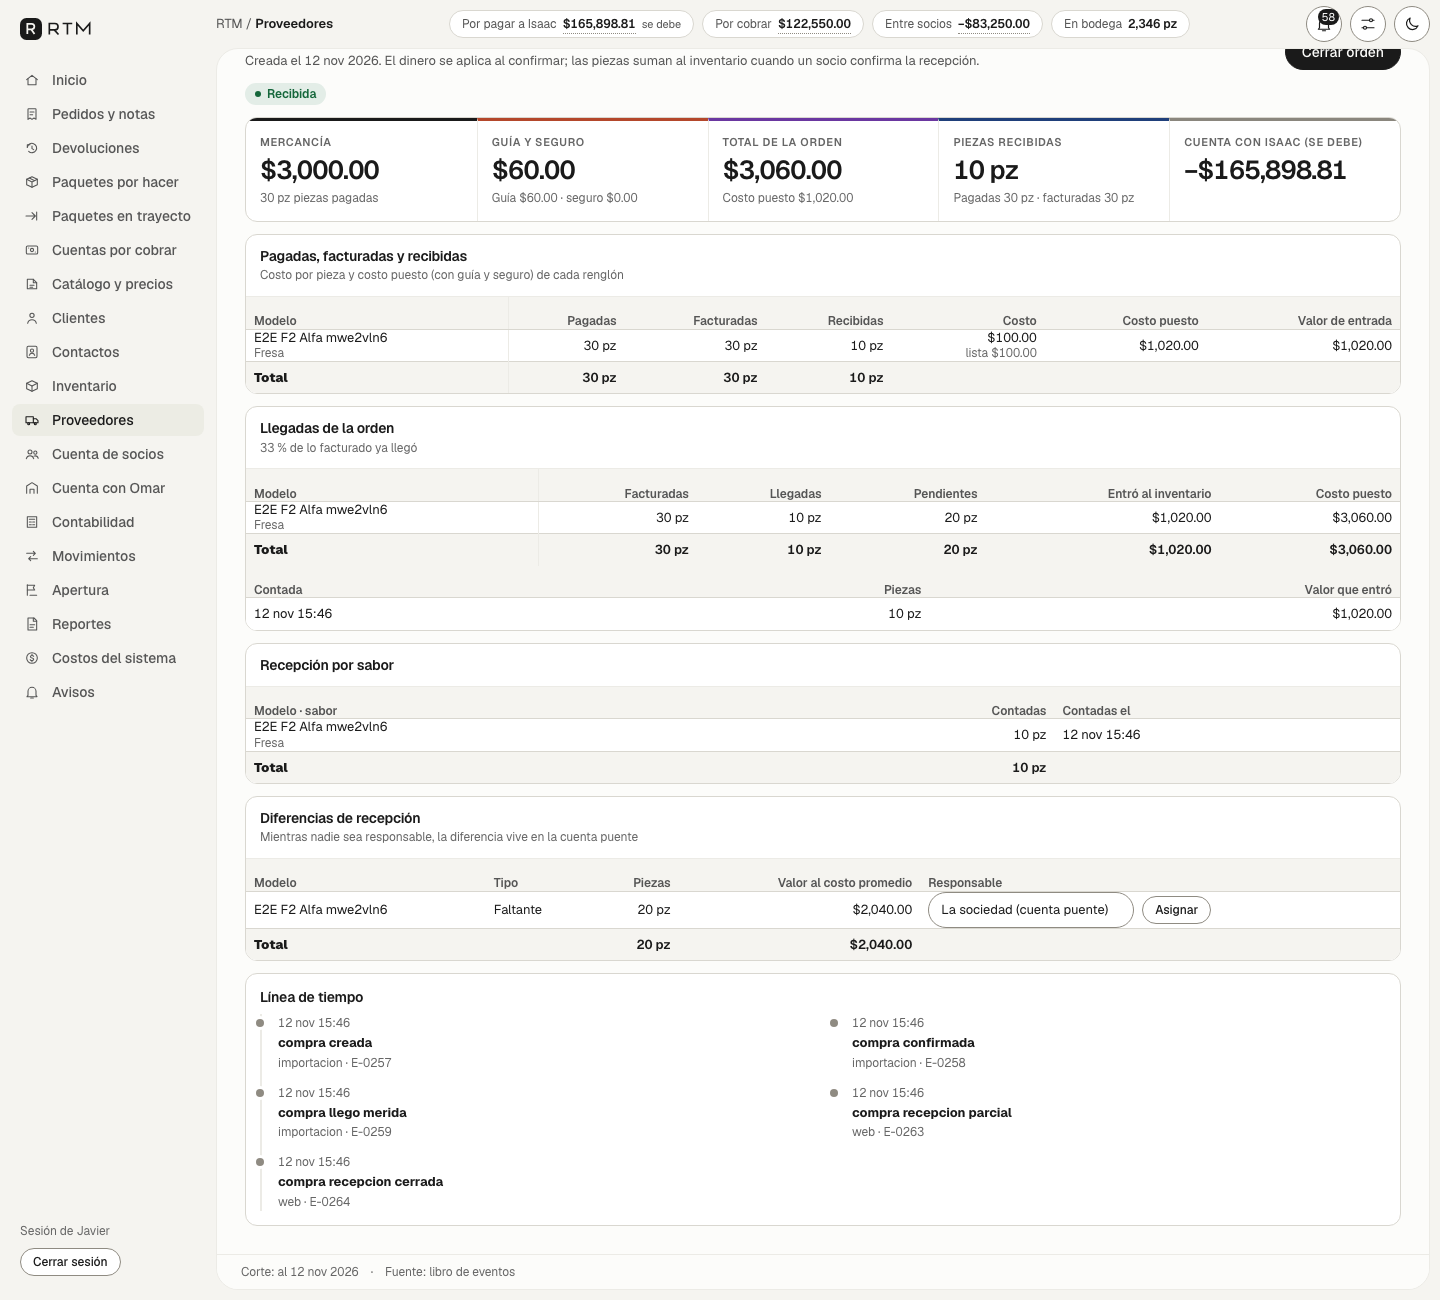
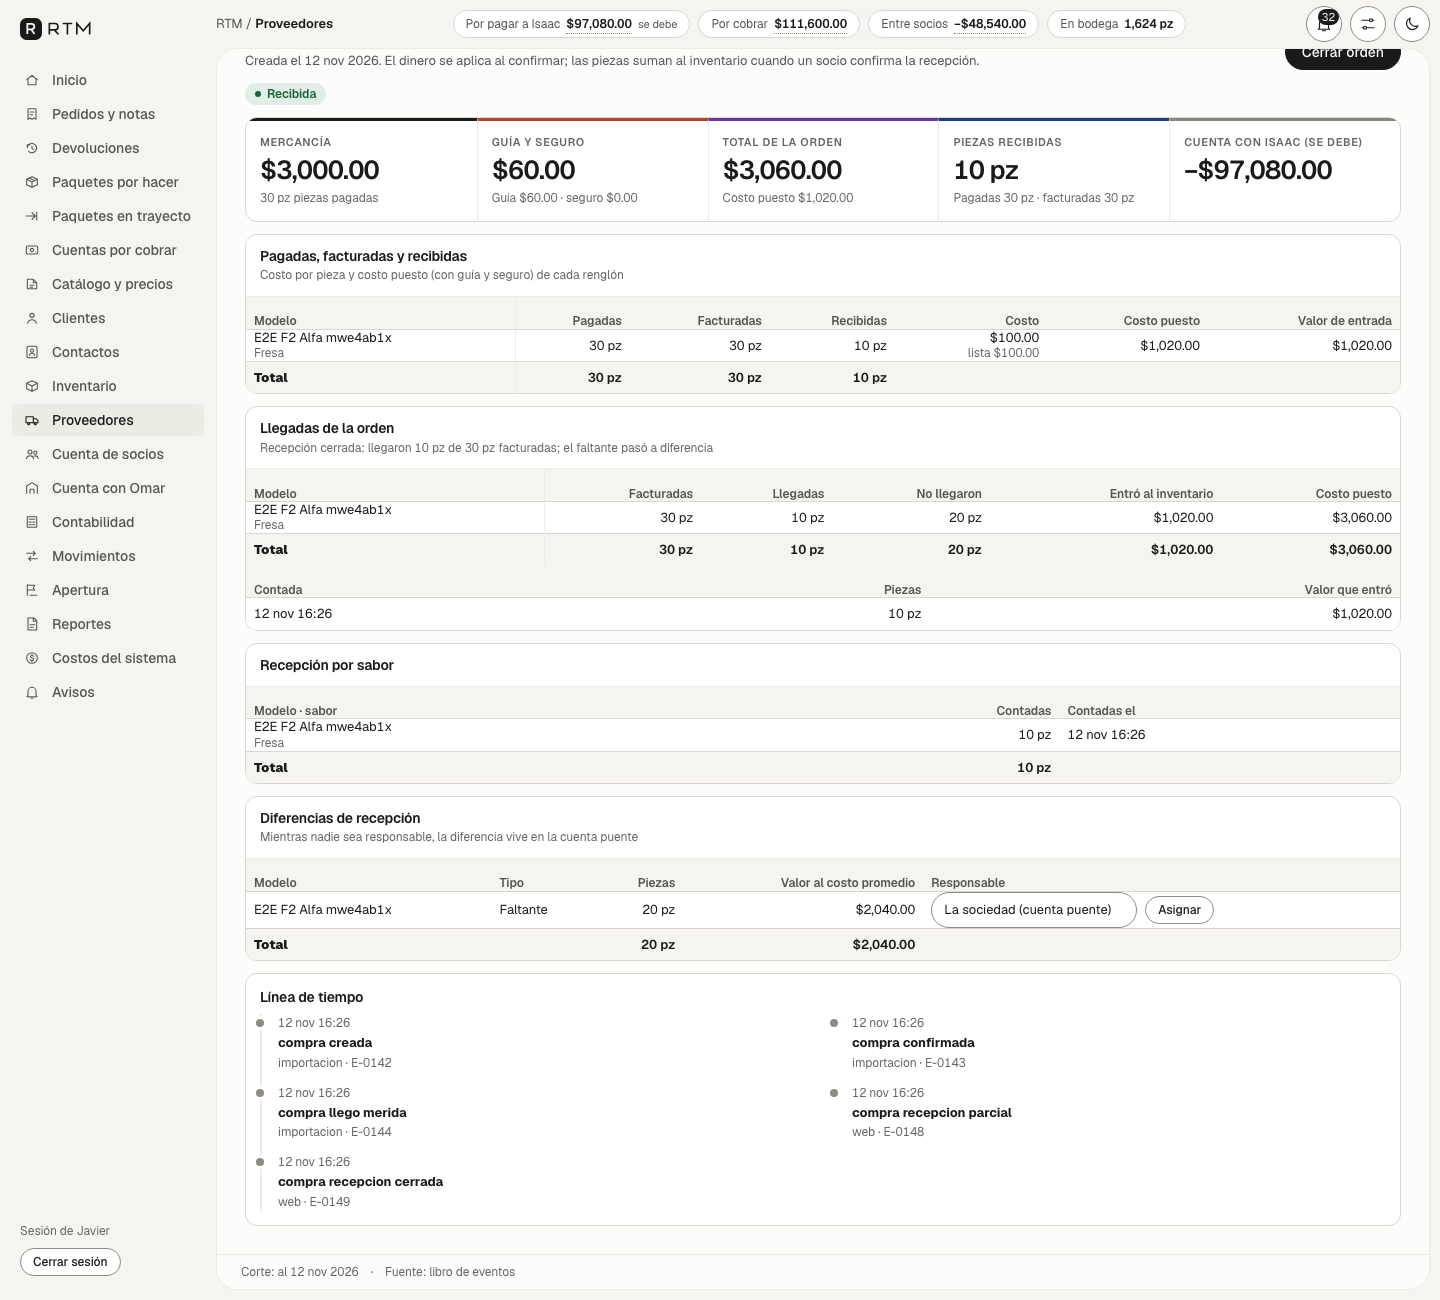
docs(devoluciones): informe de la reparacion, capturas regeneradas, e2e de utilidad neta, etiqueta Costo neto

diff --git a/src/app/(socio)/pedidos/[id]/page.tsx b/src/app/(socio)/pedidos/[id]/page.tsx
@@ -84,7 +84,7 @@ export default async function PaginaPedido({ params, searchParams }: { params: P
         etiquetaAria="Cifras del pedido"
         celdas={[
           { id: 'venta', etiqueta: enviado || anulado ? 'Total a saldar' : 'Total estimado si sale todo', valor: <CifraComprobada texto={formatearMoneda(enviado || anulado ? p.cobrado_cent : p.estimado_cent)} cifra={`pedido:total:${p.id}`} comprobacion="cuadra" />, categoria: 1, nota: `${formatearPiezas(piezasPedidas)} pedidas · ${formatearPiezas(piezasSurtidas)} surtidas` },
-          { id: 'costo', etiqueta: neta ? 'Costo de las piezas (neto)' : 'Costo de las piezas', valor: costoVista !== null ? formatearMoneda(costoVista) : null, categoria: 5, nota: neta ? `Regresaron ${formatearMoneda(neta.costo_regresado_cent)} a inventario${neta.merma_cent > 0n ? ` · merma ${formatearMoneda(neta.merma_cent)}` : ''}` : cas ? undefined : 'Se calcula al enviar' },
+          { id: 'costo', etiqueta: neta ? 'Costo neto' : 'Costo de las piezas', valor: costoVista !== null ? formatearMoneda(costoVista) : null, categoria: 5, nota: neta ? `Regresaron ${formatearMoneda(neta.costo_regresado_cent)} a inventario${neta.merma_cent > 0n ? ` · merma ${formatearMoneda(neta.merma_cent)}` : ''}` : cas ? undefined : 'Se calcula al enviar' },
           { id: 'utilidad', etiqueta: cas?.utilidad_provisional ? 'Utilidad (provisional)' : 'Utilidad', valor: utilidadVista !== null ? formatearMoneda(utilidadVista) : null, categoria: 3, nota: utilidadVista !== null && totalVista !== null && totalVista > 0n ? `Margen ${((aNumero(utilidadVista) / aNumero(totalVista)) * 100).toFixed(1)} % ${neta ? 'del total cobrado neto' : 'del total'}` : cas?.guia_pendiente ? 'Guía por costear' : undefined },
           ...(dev && dev.devuelto_cent > 0n ? [{ id: 'devuelto', etiqueta: 'Devuelto (crédito)', valor: formatearMoneda(-dev.devuelto_cent), categoria: 6 as const, nota: `${dev.devoluciones.filter((x) => !x.anulada).length} devolución(es) vigentes` }] : []),
           { id: 'abonado', etiqueta: 'Abonado', valor: enviado || anulado ? formatearMoneda(p.aplicado_cent) : null, categoria: 2, progreso: enviado && p.cobrado_cent > 0n ? { pct: (aNumero(p.aplicado_cent) / aNumero(p.cobrado_cent)) * 100 } : undefined },

diff --git a/test/e2e/devoluciones.spec.ts b/test/e2e/devoluciones.spec.ts
@@ -95,6 +95,9 @@ test('devolucion de un cliente: tope de piezas, nota de credito con PDF estable,
   await expect(seccion).toContainText('$1,500.00');
   await expect(page.getByText('Devuelto (crédito)')).toBeVisible();
   await expect(page.getByText('$3,000.00').first()).toBeVisible(); // 30 pz a 150.00 = 4,500.00 menos 1,500.00
+  // Utilidad neta de la devolucion: 1,440.00 de la nota - 1,500.00 de credito + 1,000.00 de costo que regreso a bodega = 940.00, sobre 3,000.00 cobrados.
+  await expect(page.getByText('$940.00').first()).toBeVisible();
+  await expect(page.getByText('Margen 31.3 % del total cobrado neto')).toBeVisible();
 
   const href = await seccion.getByRole('link', { name: /DV-/ }).getAttribute('href');
   const a = await page.context().request.get(href!);
@@ -121,6 +124,9 @@ test('devolucion de un cliente: tope de piezas, nota de credito con PDF estable,
   await page.getByRole('dialog').getByLabel(/Destino de/).first().selectOption('merma');
   await page.getByTestId('confirmar').click();
   await expect(seccion).toContainText('$600.00', { timeout: 30_000 });
+  // Piezas danadas: el credito baja la utilidad y el costo de la merma no regresa: 1,440.00 - 600.00 = 840.00 sobre 3,900.00.
+  await expect(page.getByText('$840.00').first()).toBeVisible();
+  await expect(page.getByText('Margen 21.5 % del total cobrado neto')).toBeVisible();
 });
 
 test('devolucion a un proveedor: sale del inventario, sube la cuenta del proveedor y se puede anular', async ({ page }) => {

diff --git a/src/app/(socio)/proveedores/compras/[id]/page.tsx b/src/app/(socio)/proveedores/compras/[id]/page.tsx
@@ -90,7 +90,7 @@ export default async function PaginaCompra({ params }: { params: Promise<{ id: s
               { id: 'm', titulo: 'Modelo', ancho: 'l', celda: (l) => <Dos a={l.modelo} b={l.sabor} /> },
               { id: 'f', titulo: 'Facturadas', numerica: true, ancho: 's', celda: (l) => formatearPiezas(l.facturadas) },
               { id: 'r', titulo: 'Llegadas', numerica: true, ancho: 's', celda: (l) => formatearPiezas(l.recibidas) },
-              { id: 'p', titulo: cerrada ? 'Faltante' : 'Pendientes', numerica: true, ancho: 's', celda: (l) => formatearPiezas(l.pendientes) },
+              { id: 'p', titulo: cerrada ? 'No llegaron' : 'Pendientes', numerica: true, ancho: 's', celda: (l) => formatearPiezas(l.pendientes) },
               { id: 'e', titulo: 'Entró al inventario', numerica: true, ancho: 'm', celda: (l) => m(l.entrada_cent) },
               { id: 'c', titulo: 'Costo puesto', numerica: true, ancho: 'm', secundaria: true, celda: (l) => m(l.puesto_cent) },
             ]}

diff --git a/docs/lane-devolucion-informe.md b/docs/lane-devolucion-informe.md
@@ -9,16 +9,27 @@ Migraciones aditivas `20261113000100` a `000400` (prefijo posterior a la ultima 
 - Devolucion a proveedor (`DP-xxxx`): sale al costo promedio, la cuenta con Isaac o Karen sube por el mismo valor, anulacion.
 - Contabilidad: Dr 4220 / Cr 1210 por la devolucion de cliente; 1320 reconoce lo pendiente de compras recibidas en parte; C14 resta 4220; `Explicar este numero` para saldo y total del pedido con devoluciones y para cada devolucion (`devolucion:cliente|proveedor:id`).
 - API (`api.*`) y web: pagina `/devoluciones` (sidebar), seccion Devoluciones y dialogo en el pedido, llegadas parciales y cierre de recepcion en la orden de compra, PDF de nota de credito y de devolucion a proveedor con huella estable (se genera una vez y se guarda).
-- Correccion de base ajena que bloqueaba toda verificacion visual: `premium.css` (commit 6b5e269 de la base) tenia `.rtm-region { display: contents; }`, que rompia el armazon en escritorio (el contenido caia en la columna del menu). Se quito esa linea; `shell.css` ya define la region.
+- Correccion de base ajena que bloqueaba toda verificacion visual: `premium.css` (commit 6b5e269 de la base) tenia `.rtm-region { display: contents; }`, que rompia el armazon en escritorio (el contenido caia en la columna del menu). La rama `rediseno/premium` ya la corrigio despues (commit d63d0c0: la clase del grupo sin caja de la pagina de inventario pasa a `.rtm-region-pag`, y `.rtm-region` queda solo para el armazon con su layout de `shell.css`). El carril aplica EXACTAMENTE el mismo cambio (`.rtm-region-pag { display: contents; }` en `premium.css` y la clase en `proveedores/inventario/page.tsx`), de modo que al integrar el merge no tiene conflicto. Nota: `.rtm-region` SI se usa en `src/ui/shell/armazon.tsx` (la afirmacion anterior de que no se usaba era incorrecta para src).
 
 ## Comandos corridos y resultado real
-- `supabase db reset` + `supabase test db`: 47 archivos, 2,295 pruebas; unico fallo `024_omar_cuenta_sin_folio` #13 (preexistente: usa fechas fijas y supone que hoy es 11-nov; ya documentado en `docs/union-produccion.md`). pgTAP nuevo `028_devoluciones_recepcion_parcial`: 89 pruebas OK, incluye C3, C4, C5, C7, C10, C14, C16, C18, CU1 a CU3 por dos vias, `reproducir_saldos` (clientes, saldos a favor, transito) tras recepcion parcial, devolucion de cliente con liberacion de pago, anulaciones y devolucion a proveedor.
-- `npx vitest run`: 113 archivos, 1,731 pruebas OK (2 esperadas-falla preexistentes); nuevo `test/unit/devoluciones.test.ts` (13).
+- `supabase db reset` + `supabase test db`: 47 archivos, 2,314 pruebas; unico fallo `024_omar_cuenta_sin_folio` #13 (esperado -6000, tiene -10000). Preexistente DEMOSTRADO: se creo un worktree desechable en el merge-base `6b5e269` (sin ninguna migracion del carril), `db reset` y `supabase test db` sobre 024 da el mismo fallo (#13, have -10000, want -6000); la prueba usa fechas fijas y supone que hoy es 11-nov. pgTAP nuevo `028_devoluciones_recepcion_parcial`: 108 pruebas OK (89 originales + 19 nuevas de la ronda de reparacion), incluye C3, C4, C5, C7, C10, C14, C16, C18, CU1 a CU3 por dos vias, `reproducir_saldos` (clientes, saldos a favor, transito) tras recepcion parcial, devolucion de cliente con liberacion de pago, anulaciones y devolucion a proveedor.
+- `npx vitest run`: 113 archivos, 1,731 pruebas OK (2 esperadas-falla preexistentes; repetido tras la reparacion con el mismo resultado); nuevo `test/unit/devoluciones.test.ts` (13).
 - `npx tsc --noEmit`, `eslint`, `npm run guardas` (0 violaciones) y `npm run secretos` (0 hallazgos): limpios.
-- Playwright `playwright.devoluciones.config.ts` (laptop 1440 y iPhone 402) contra `next build` + `next start -p 3109`: 10/10 OK (llegadas parciales, cierre con faltante y motivo obligatorio, devolucion con tope de piezas, PDF de huella estable guardado una sola vez, anulaciones, devolucion a proveedor, identidad contable al final).
-- Capturas: `docs/capturas/devoluciones/` (1440 por tramos y 390, claro y oscuro; sin desborde horizontal en 390). Se revisaron las imagenes y se corrigieron: dialogos con tabla recortada, "pz pz" duplicado, etiqueta del costo puesto en recepcion parcial.
+- Playwright `playwright.devoluciones.config.ts` (laptop 1440 y iPhone 402) contra `next build` + `next start -p 3109`: 10/10 OK, repetido tras la reparacion (ahora el e2e tambien comprueba utilidad y margen netos del pedido tras una devolucion buena y otra danada; llegadas parciales, cierre con faltante y motivo obligatorio, devolucion con tope de piezas, PDF de huella estable guardado una sola vez, anulaciones, devolucion a proveedor, identidad contable al final).
+- Capturas: `docs/capturas/devoluciones/` (1440 por tramos y 390, claro y oscuro; sin desborde horizontal en 390). Se revisaron las imagenes y se corrigieron: dialogos con tabla recortada, "pz pz" duplicado, etiqueta del costo puesto en recepcion parcial. Ronda de reparacion: capturas regeneradas y vistas de nuevo (ver abajo).
+
+## Reparacion de los hallazgos del verificador
+1. Utilidad del pedido con devolucion (dinero que no cuadraba en pantalla). `api.pedido_devoluciones` devuelve ahora `cascada_neta` (calculada en la base, la web no suma dinero): total cobrado neto = total de la nota - credito vigente; costo neto = costo de la nota - costo de lo que regreso a inventario (lo danado a merma sigue siendo costo); utilidad neta = utilidad de la nota - credito + costo regresado. La renta de Omar y la guia no cambian (ver regla pendiente). La pagina del pedido usa estas cifras cuando hay devoluciones vigentes: tarjetas "Costo neto" y "Utilidad" y margen "% del total cobrado neto". Caso del pedido P-0025: nota 4,500.00, devolucion buena de 10 pz (1,500.00): utilidad 940.00 sobre 3,000.00 (31.3 %); devolucion danada de 4 pz (600.00): utilidad 840.00 sobre 3,900.00 (21.5 %), costo 3,000.00 (la merma de 400.00 no regresa). Cubierto por e2e (devoluciones.spec.ts) y por pgTAP 028 (cascada neta).
+2. Movil 390, fila Total de "Llegadas de la orden": la cifra principal (anclada a la fila 1 de la tarjeta) chocaba con la etiqueta "Total", que ocupa toda la fila; se corrigio en `premium.css` (pie de totales en tarjeta movil, solo <= 767 px). En la captura nueva `390-oscuro-compra-recibida-en-parte.png` ya no hay cifra suelta, el Total se lee como tarjeta ordenada.
+3. "Registrar una llegada parcial" en escritorio: ahora es una tarjeta (`Tarjeta`) con una fila por renglon: modelo y cifras (facturadas, llevan, faltan) a la izquierda y sabor, cantidad y "Otro sabor" alineados en la misma fila; en movil se apila. En una orden cerrada la tabla dice "Recepcion cerrada: llegaron 10 de 30 facturadas; el faltante paso a diferencia" y la columna se llama "No llegaron" en lugar de "Pendientes" (se evita "33 % de lo facturado ya llego").
+4. Cobertura: pgTAP 028 ahora ejercita (a) credito menor al saldo (liberado 0, saldo 500.00 a 350.00), (b) liberacion parcial de una aplicacion (exceso 100.00 contra aplicacion de 4,000.00; quedan aplicados 3,900.00, saldo a favor 100.00) y (c) una nota con dos destinos del mismo sabor (2 inventario + 1 merma, costos 182.00 y 91.00 sin residuo), con la identidad contable y `reproducir_saldos` tras cada rama; mas la cascada neta.
+5. Cambio en base ajena (`.rtm-region`): resuelto como se describe arriba, identico a lo que ya hizo `rediseno/premium`.
+6. Migraciones: las funciones re-creadas (`pedido_cobrado`, `anular_pedido`, `lineas_de_evento`, `reproducir_saldos`, `comprobaciones`, `api.compras_lista`, `api.compra_detalle`) y la renombrada `api.explicar_cifra` -> `explicar_cifra_antes_devoluciones` siguen siendo parches sobre la version de la base de este carril; si otra rama las redefine hay que repetirlos al integrar. La unica migracion tocada en esta ronda es `20261113000400` (aun no publicada), con el campo nuevo `cascada_neta`; no se agrego migracion nueva.
+7. Inconsistencia menor del commit 8343b6c (dice 88 pruebas, el informe 89): el conteo vigente de 028 es 108.
 
 ## Reglas pendientes del dueno (no inventadas)
+- RENTA DE BODEGA OMAR: la devolucion de un cliente NO revierte la renta del pedido (a diferencia de `anular_pedido`, que si llama `operacion.revertir_renta_pedido`). Hoy la renta por pieza devuelta no se acredita y la utilidad neta del pedido la mantiene. El dueno debe decidir si la renta se acredita por pieza devuelta (y con que regla para piezas danadas).
+- VALUACION DE LA MERMA DE UNA DEVOLUCION DANADA: el trigger de inventario valua toda salida tipo `merma` al costo promedio vigente del modelo (regla general del kardex, no de este carril), no al valor al que salio la pieza. La devolucion entra al valor original (5100 se revierte por ese valor) pero la merma (5200) se asienta al promedio de ese momento; la identidad cuadra, pero si el promedio cambio entre la venta y la devolucion, 5200 difiere del 5100 revertido. En la vista del pedido la merma se muestra al valor original. pgTAP 028 lo prueba solo con promedio igual (91.00). Decidir si la merma de una devolucion debe valuarse al valor original (exige cambiar la regla del trigger para ese caso).
 - El credito al cliente es piezas x precio de la nota vigente: no devuelve envio ni descuento.
 - El credito del proveedor es el valor en libros; una diferencia pactada se captura con el ajuste de proveedor existente.
 - Pedidos directos del proveedor (karen_directo, isaac_directo, karen_via_isaac) no admiten devolucion (se rechaza con mensaje).
